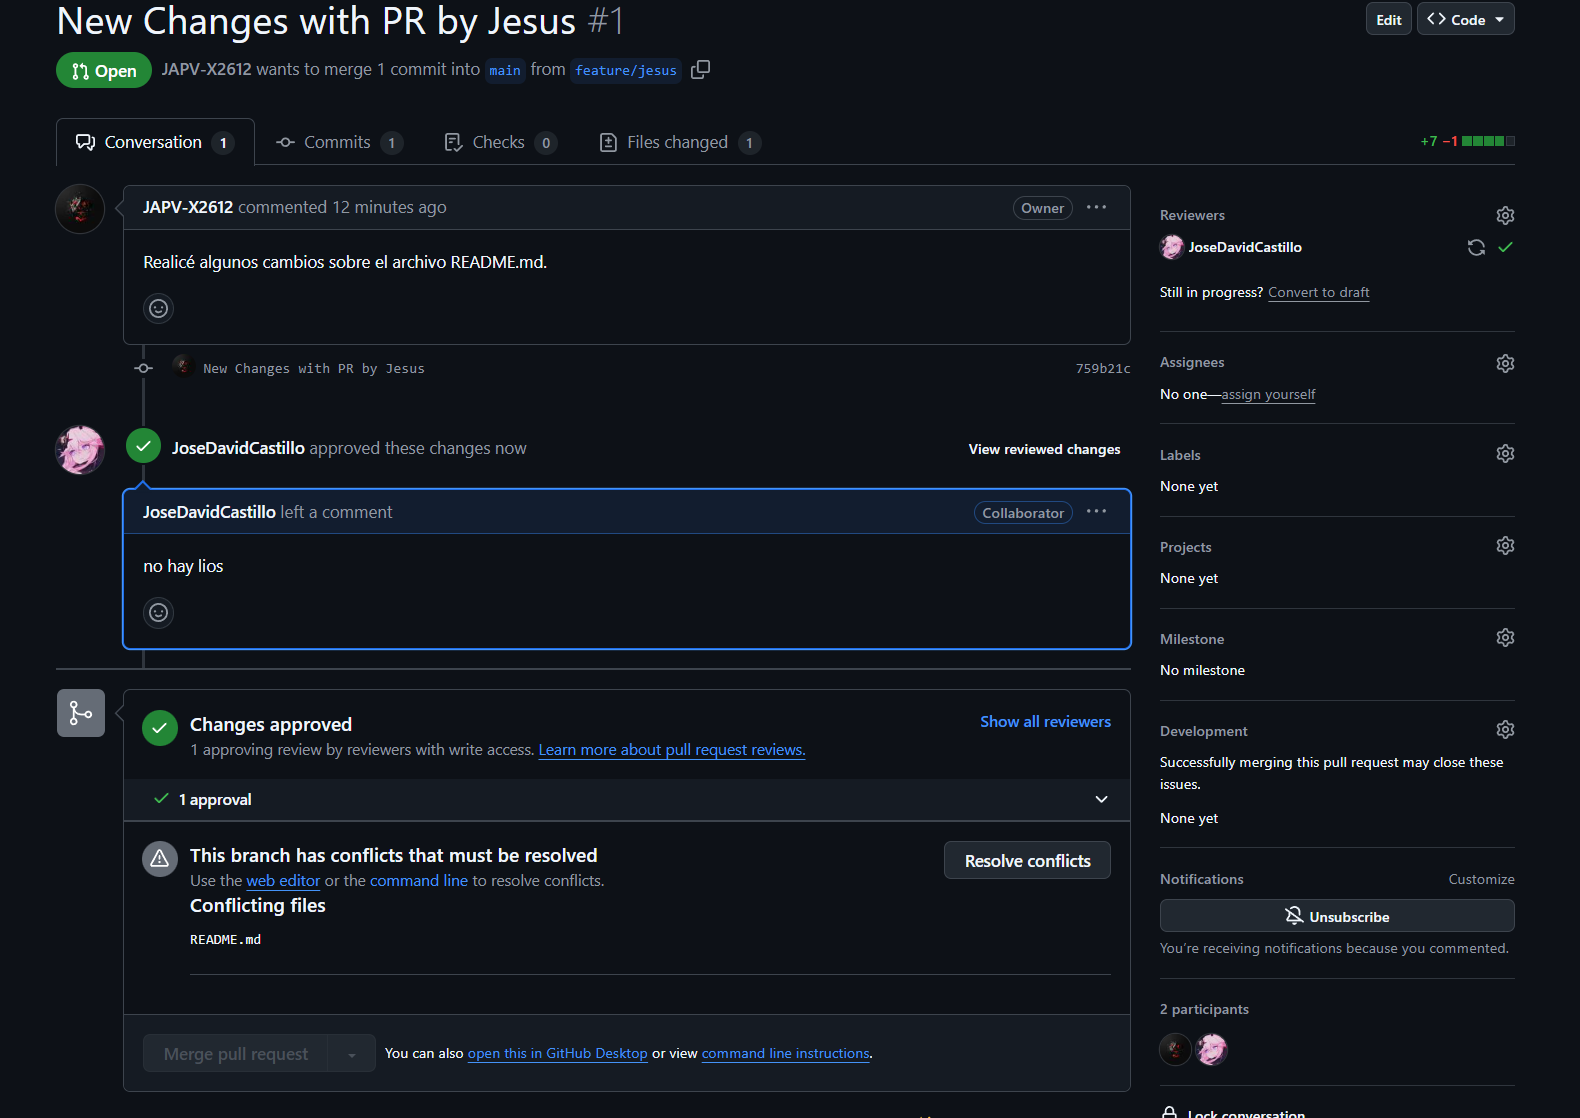
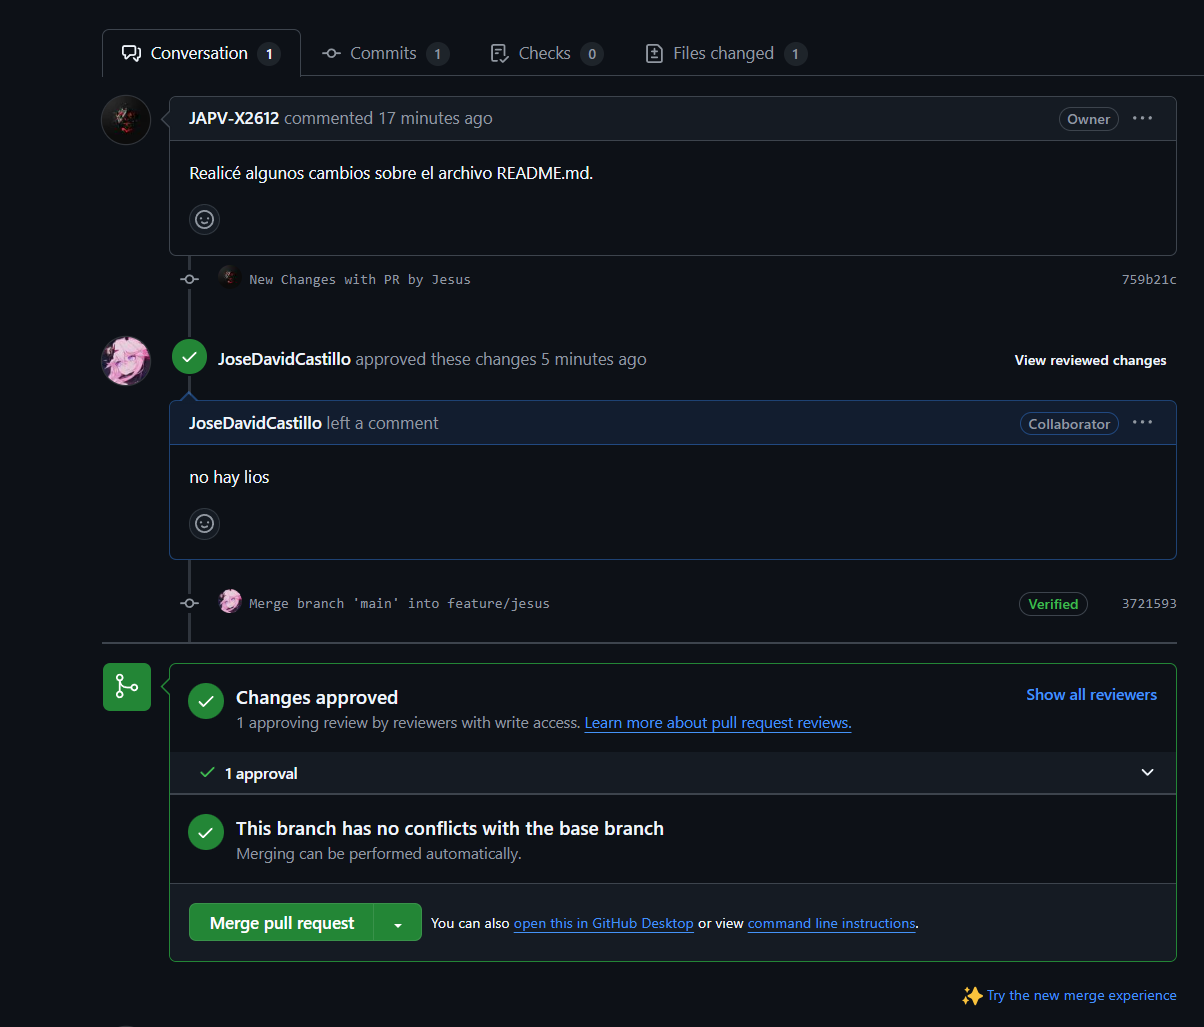
Final Files By Jesus

diff --git a/README.md b/README.md
@@ -204,7 +204,7 @@ Then, each of them proceeded to resolve their respective conflicts manually and 
 
 
 
-## **PART II (Teamwork)**
+## **PART III (Teamwork)**
 
 To avoid update issues like the one we had in the previous case, we are now going to use Pull Requests (PR), which are requests to merge changes from one branch to another in a GitHub repository, allowing review and collaboration before integration.
 
@@ -278,7 +278,6 @@ After the review, we accepted and merged the PRs into the main branch. This proc
 
 ![Jose Acepted PR By Jesus 1](images/jose_pr_by_jesus_1.png)
 ![Jose Acepted PR By Jesus 2](images/jose_pr_by_jesus_2.png)
-![Jose Acepted PR By Jesus 3](images/jose_pr_by_jesus_3.png)
 
 
 
